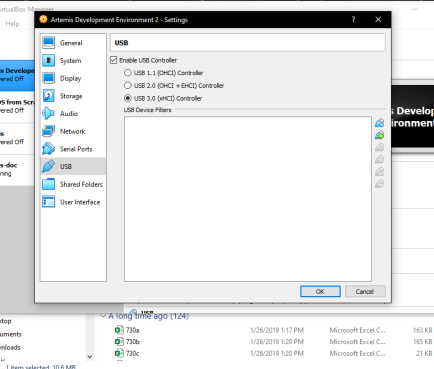
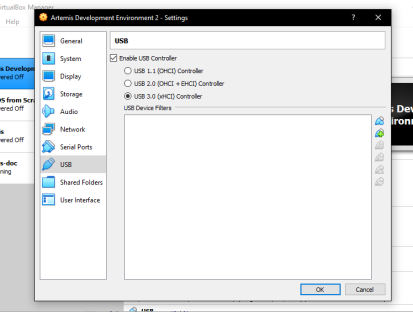
ADE tutorial revisions 2.0 (1/28/21)

Changed region(s): [[0.0, 0.0, 1.0, 1.0]]

diff --git a/pages/tutorials/setup/setup2.md b/pages/tutorials/setup/setup2.md
@@ -71,7 +71,7 @@ Some of the commands you will need:
 
 
 Download the Artemis box from
-[here](https://drive.google.com/file/d/1n7STiXjn-9vVHDCc5zBzeENrUTrOm2Gb/view?usp=sharing). An example location of the file on Windows is
+[here](https://drive.google.com/file/d/14slc_5AHery2TkT4guIsQOVaNav0zdbC/view?usp=sharing). An example location of the file on Windows is
 `C:\Users\YOUR_USERNAME\Documents\Vagrant\artemis`. 
 
 
@@ -99,7 +99,7 @@ Enter the following command:
 $ vagrant init artemis
 ```
 
-Download the "Vagrantfile" file from [here](https://drive.google.com/file/d/1pGEJUORE0b6cQiSA7cCokXybwREfteta/view?usp=sharing). You will have to find the folder where the files have been installed and copy the "Vagrantfile" to the folder you previously chose, overwriting the existing "Vagrantfile" file. It will likely be the same folder your Command prompt was in at the time of the `vagrant init artemis` command.
+Download the "Vagrantfile" file from [here](https://drive.google.com/file/d/1YqGf7kaUyD1uRo8xKAWAwQrHmqKQplRl/view?usp=sharing). You will have to find the folder where the files have been installed and copy the "Vagrantfile" to the folder you previously chose, overwriting the existing "Vagrantfile" file. It will likely be the same folder your Command prompt was in at the time of the `vagrant init artemis` command.
 
 The new Vagrantfile will set up the virtual machine with necessary virtualization settings.
 
@@ -176,7 +176,7 @@ This section will allow you to use USB devices that are attached to your physica
 
 When your download is complete, find the file and open it. This should give you a prompt in the VirtualBox program, so just follow the steps to install the extension.
 
-{% include image.html file="/resources/tutorials/setup/part2/usb.png" width="100%" %}
+{% include image.html file="/resources/tutorials/setup/part2/usb.png" width="40%" %}
 
 After the install is complete, highlight the Development Environment and open the Settings menu. Select USB, click the box to _Enable USB Controller_, and select _USB 3.0_. If only _USB 1.0_ is available, the Extension Pack is not properly installed, so repeat this section.
 

diff --git a/index.md b/index.md
@@ -7,7 +7,9 @@ toc: false
 ---
 
 
-{% include image.html file="/resources/logos/hsfl.png" width="30%" %}
+{% include image.html file="/resources/logos/artemis_ck.png" width="30%" %}
+
+
 
 ## Welcome to the Website!                                                            
 
